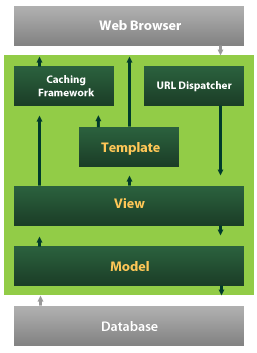
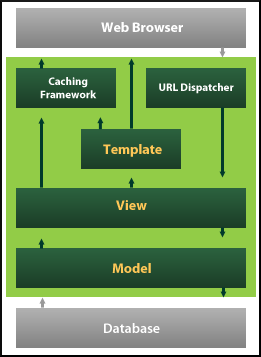
Added figure, listings. Section 2.1.1 updates

diff --git a/diploma/src/chapters/second-chapter.tex b/diploma/src/chapters/second-chapter.tex
@@ -1,7 +1,7 @@
 \chapter{State of the art}
 \label{chapter:state}
 
-In this chapter we will start to describe the technologies and frameworks used for both back-end and front-end implementations, followed by presenting them as a whole in the next chapter \ref{chapter:implementation}. For serving the web-page we used Django \ref{sub-sec:django} and for delivering the and the REST API we used Tastypie \ref{sub-sec:tastypie}, the Django compatible solution. For the logic and for rendering the front-end components we used Facebook's React.js framework \ref{sub-sec:react} and also Bootstrap/Flexbox \ref{sub-sec:bootstrap} for styling.
+In this chapter we will start to describe the technologies and frameworks used for both back-end and front-end implementations, followed by presenting how they interact as a system in the next chapter~\ref{chapter:implementation}. For serving the web-page we used Django~\ref{sub-sec:django} and for delivering the and the REST API we used a Django compatible extension called Tastypie~\ref{sub-sec:tastypie}, the Django compatible solution. For rendering the front-end components we used Facebook's React.js framework~\ref{sub-sec:react} and also Bootstrap/Flexbox~\ref{sub-sec:bootstrap} for styling.
 
 \section{Back-end Frameworks}
 \label{sec:backend}
@@ -9,19 +9,55 @@ In this chapter we will start to describe the technologies and frameworks used f
 \subsection{Django}
 \label{sub-sec:django}
 
-For our back-end framework we used Django mainly because of it's performance, stability and the flexibility that it gives to developers. Also being a free and open source project, Django benefits of a large community support therefore having a very detailed official documentation and a vast collection of tutorials available online.
+For our back-end framework we used Django mainly because of it's performance, scalability, stability and the flexibility that it gives to developers. Being a free and open source project, Django benefits of a large community support therefore having an extensive official documentation, a vast collection of tutorials available online and many more extensions available to install trough the built in PIP (Python Package Index) installer.
 
-Django is a web application framework written in Python with a "batteries-included" philosophy. The principle behind batteries-included is that the common functionality for building web applications should come with the framework instead of as separate libraries.
+Django is a web application framework written in Python with a ``batteries-included'' philosophy. The principle behind batteries-included is that the common functionality for building web applications should come with the framework instead of as separate libraries. Therefore Django can provide developers with all the tools needed to put up a web page. It has a built in relational database for storing information, a templating system for rendering pages and a URL dispatcher for resolving page requests. The framework also comes with more advanced features like XSS (Cross site scripting), CSRF (Cross site request forgery) and SQL Injection protection but also an authentication and admin panel modules.
 
-Even if Django's architecture resembles an MVC (Model View Controller), its developers call it a MTV (Model Template View) framework\footnote{https://docs.djangoproject.com/en/1.8/faq/general/\#django-appears-to-be-a-mvc-framework-but-you-call-the-controller-the-view-and-the-view-the-template-how-come-you-don-t-use-the-standard-names\label{note1}}. A high level view of Django's architecture can be seen in
-\begin{itemize}
-	\item The "Model" consists of an object-relational mapper that translates data models defined in Python classes to classic relational database tables.
-	\item The "View" consists of a web templating system that handles the page rendering on the client part. This is also why it is called the "Template" instead of "View".
-	\item The "Controller" is a regular-expression-based URL dispatcher that handles the page requests. It is seen as a "View" by the developers because the callback function of the dispatcher describes which data is presented to de user.
-\end{itemize}
+Django's architecture is described by the developers\footnote{https://docs.djangoproject.com/en/1.8/faq/general/\#django-appears-to-be-a-mvc-framework-but-you-call-the-controller-the-view-and-the-view-the-template-how-come-you-don-t-use-the-standard-names\label{note1}} as a MTV, which stands for ``Model-Template-View,, even if it closely resembles a classic MVC (Model View Controller) pattern which many may be familiar with. A high level view of Django's architecture can be seen in \labelindexref{Figure}{img:django-arch}.
+
+\fig[scale=0.5]{src/img/Django-Arch.png}{img:django-arch}{Django architecture \cite{django-arch} }
+
+\subsubsection{Model}
+\label{sub-sub-sec:model}
+
+The "Model" consists of an object-relational mapper that translates data models defined in Python classes to classic relational database tables. Django's default relational database management system is SQLite.
+
+Models are represented by Python classes and contain essential fields and behaviors of the stored data and represent the single source of information about that data. Every class inherits the \textbf{django.db.models.Model} and each model attribute represents a database field. An very basic example can be seen in Listing~\ref{lst:model-py}.
+
+\lstinputlisting[label={lst:model-py},caption=Post model class,language=Python]{src/code/python/modelexample.py}
+
+We can see that we have two character type fields and one date type field that map to the corresponding columns in Listing~\ref{lst:model-sql}.
+
+\lstinputlisting[label={lst:model-sql},caption=Post sql table,language=SQL]{src/code/python/examplesql.sql}
+
+\subsubsection{Template}
+\label{sub-sub-sec:template}
+
+The "Template" consists of a web templating system that handles the page rendering on the client part. This is also why it is called the "Template" even if it basically resembles the MVC "View" component. A Django template is composed of the static parts of the desired HTML output as well as special syntax that describes describing how dynamic content will be inserted.
+
+\subsubsection{View}
+\label{sub-sub-sec:view}
+
+The "View" is a regular-expression-based URL dispatcher that maps the URL to a view function and calls it. The view function can also check if a cached version of the page is available and skip the following steps. The component was named "View" by the developers because the callback function of the dispatcher describes which data is presented to de user. The "View" can be seen as an MVC "Controller" because the view functions performs the requested action which usually implies reading or writing to the database. 
+
+
+
 
 \subsection{Tastypie}
 \label{sub-sec:tastypie}
+
+Tastypie\footnote{\url{http://tastypieapi.org/}} is a webservice API framework for Django. It provides a convenient, yet powerful and highly customizable abstraction for creating REST-style interfaces. Like Django, Tastypie is an open source, community backed project. Some of it's main features are:
+
+\begin{itemize}
+	\item Full GET/POST/PUT/DELETE/PATCH support
+	\item Designed to be extended at every turn
+	\item Includes a variety of serialization formats (JSON/XML/YAML/bplist)
+	\item HATEOAS by default
+	\item Well-tested and well-documented
+\end{itemize}
+
+Tastypie's basic functionality is taking data represented in the models (described by python classes) and serializing it and sending the resulted data to the client that consumes the API.
+
 
 \subsubsection{API}
 

diff --git a/diploma/src/chapters/intro.tex b/diploma/src/chapters/intro.tex
@@ -6,15 +6,15 @@
 
 The Dynamic Webform Builder project started out as an idea at Hootsuite Romania and had the main goals of:
 \begin{itemize}
-
-\item Defining and maintaining a REST (Representational State Transfer) API (Application programming interface) and model schema in a single place (server-side)
-
-\item Auto-exploring the resource and auto-generating generic forms
-
-\item Creating add/edit forms with minimal client-side work (scalable user interface)
-
-\item Have consistent look and experience in all forms
-
+	
+	\item Defining and maintaining a REST (Representational State Transfer) API (Application programming interface) and model schema in a single place (server-side)
+	
+	\item Auto-exploring the resource and auto-generating generic forms
+	
+	\item Creating add/edit forms with minimal client-side work (scalable user interface)
+	
+	\item Have consistent look and experience in all forms
+	
 \end{itemize}
 
 \section{Motivation}
@@ -30,14 +30,14 @@ Therefore this project aims to demonstrate that it is possible to have auto-expl
 \section{Background}
 \label{sec:background}
 
-In this section we will describe the base concepts that are used across this thesis. Therefore we will start by describing the concept of a Web service in section \ref{sub-sec:web-service} followed by explaining the base concepts behind the REST software architecture in \ref{sub-sec:rest} and it's HATEOAS constraint described in \ref{sub-sec:hateoas}.
+In this section we will describe the base concepts that are used across this thesis. Therefore we will start by describing the concept of a Web service in section~\ref{sub-sec:web-service} followed by explaining the base concepts behind the REST software architecture in~\ref{sub-sec:rest} and it's HATEOAS constraint described in~\ref{sub-sec:hateoas}.
 
 \subsection{Web service}
 \label{sub-sec:web-service}
 
-As the W3C (World Wide Web Consortium) states \cite{W3C}, "A Web service is a software system designed to support interoperable machine-to-machine interaction over a network. It has an interface described in a machine-processable format (specifically WSDL). Other systems interact with the Web service in a manner prescribed by its description using SOAP-messages, typically conveyed using HTTP with an XML serialization in conjunction with other Web-related standards." Therefore we can define a web service in more simpler terms as a framework for a conversation between two computers that are communicating over the web, where a client sends a request message server receives that request, processes it and returns a response message.
+As the W3C (World Wide Web Consortium) states \cite{W3C}, ``A Web service is a software system designed to support interoperable machine-to-machine interaction over a network. It has an interface described in a machine-processable format (specifically WSDL). Other systems interact with the Web service in a manner prescribed by its description using SOAP-messages, typically conveyed using HTTP with an XML serialization in conjunction with other Web-related standards.'' Therefore we can define a web service in more simpler terms as a framework for a conversation between two computers that are communicating over the web, where a client sends a request message server receives that request, processes it and returns a response message.
 
-Interaction with web services is done typically trough HTTP (Hypertext Transfer Protocol). An example of web service interaction in today's web pages is described by AJAX(Asynchronous JavaScript and XML) requests. 	To prevent a full page transition a the browser may initiate an asynchronous request (AJAX call) asking for specific data to be rendered later(eg. rendering an email into the Gmail application). The server will send a response in the form of HTML (HyperText Markup Language) code or just pure data encoded in XML (EXtensible Markup Language) or JSON (JavaScript Object Notation).
+Interaction with web services is done typically trough HTTP (Hypertext Transfer Protocol). An example of web service interaction in today's web pages is described by AJAX(Asynchronous JavaScript and XML) requests.   To prevent a full page transition a the browser may initiate an asynchronous request (AJAX call) asking for specific data to be rendered later(eg. rendering an email into the Gmail application). The server will send a response in the form of HTML (HyperText Markup Language) code or just pure data encoded in XML (EXtensible Markup Language) or JSON (JavaScript Object Notation).
 
 \subsubsection{Web API}
 \label{sub-sub-sec:web-api}
@@ -52,8 +52,8 @@ A Web API defines both the server-side API as well as the client browser API and
 
 According to the W3C \cite{W3C} we can identify two major classes:
 \begin{itemize}
-\item REST-compliant Web services, in which the primary purpose of the service is to manipulate representations of Web resources using a uniform set of stateless operations.
-\item Arbitrary Web services, in which the service may expose an arbitrary set of operations. 
+	\item REST-compliant Web services, in which the primary purpose of the service is to manipulate representations of Web resources using a uniform set of stateless operations.
+	\item Arbitrary Web services, in which the service may expose an arbitrary set of operations. 
 \end{itemize}
 
 Today web API's have been moving\footnote{\url{http://www.infoq.com/articles/rest-soap}} to a much simpler and well defined representational state architecture and are now called RESTful API's. These systems usually communicate over HTTP with the same HTTP verbs (GET, POST, PUT, PATCH, DELETE) used by browsers to render web pages.

diff --git a/diploma/src/base/abstract.tex b/diploma/src/base/abstract.tex
@@ -4,4 +4,4 @@ Development time is an important topic today, with companies competing against e
 
 The project aims to provide a front-end application that is agnostic of the back-end structure, providing independence between the two platforms. The application will also be able to auto-generate generic UI components regardless of the data fetched from the API.
 
-\textbf{Keywords}: Front-end, HATEOAS, REST, API, React, Django, python
+\textbf{Keywords}: Web, Front-end, HATEOAS, REST, API, React, Django, python

diff --git a/diploma/src/global.tex b/diploma/src/global.tex
@@ -5,7 +5,7 @@
 
 \titleen{Dynamic Webform Builder}
 \titlero{Un titlu de senzație}
-\adviser{Ş.l. dr. ing. Răzvan Deaconescu}
+\adviser{Laura + Andrei Picus / RD ??}
 \titlefooteren{Bucharest, 2015}
 \titlefooterro{București, Anul de Grație}
 

diff --git a/diploma/src/code/python/modelexample.py b/diploma/src/code/python/modelexample.py
@@ -1,0 +1,6 @@
+from django.db import models
+
+class Post(models.Model):
+    author_name = models.CharField(max_length=30)
+    text = models.CharField(max_length=200)
+    created_at = models.DateTimeField('created_at')
